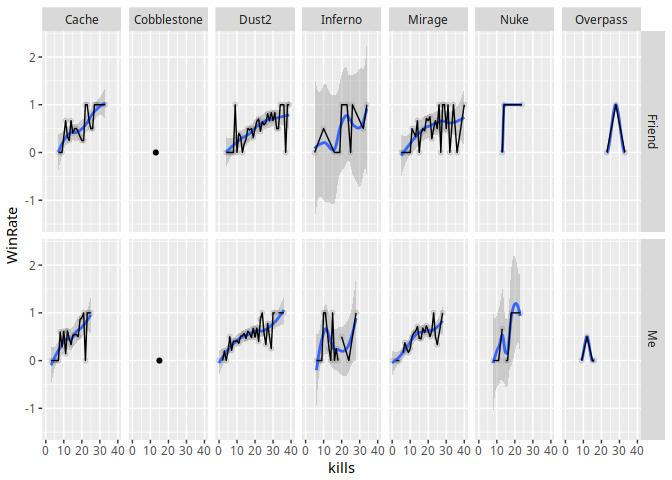
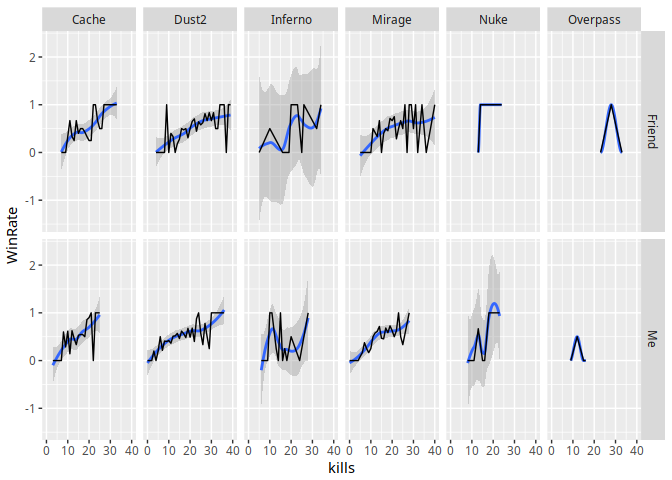
refactored near duplicate query

diff --git a/README.md b/README.md
@@ -32,6 +32,7 @@ library(readr)
 library(DBI)
 library(lubridate)
 library(dplyr)
+library(tidyr)
 library(glue)
 
 vars <- read_csv('secrets/vars.csv',
@@ -39,7 +40,7 @@ vars <- read_csv('secrets/vars.csv',
     )
 id1 <- vars$MY_ID
 id2 <- vars$FRIEND_ID
-p.name <- glue("CASE WHEN p.steam_id = {id1} THEN 'Me' WHEN {id2} THEN 'Friend' END as name")
+p.name <- glue("CASE WHEN p.steam_id = {id1} THEN 'Me' WHEN {id2} THEN 'Friend' END AS name")
 
 # Sql with variable Interpolation utility func
 # idk why glue_sql doesnt work
@@ -72,7 +73,7 @@ tbl(con, si("
 
 ``` r
 tbl(con, si("
-    SELECT AVG(pl.kills) as AvgDayKills, pl.start_time, {p.name}
+    SELECT AVG(pl.kills) AS AvgDayKills, pl.start_time, {p.name}
     FROM player p
     INNER JOIN played_in pl ON p.steam_id = pl.pid
     WHERE
@@ -88,7 +89,7 @@ tbl(con, si("
     facet_grid(name~.)
 ```
 
-![](README_files/figure-gfm/a-1.png)<!-- -->
+![](README_files/figure-gfm/avg-kills-1.png)<!-- -->
 
 ``` r
 tbl(con, si("
@@ -111,11 +112,11 @@ tbl(con, si("
     geom_smooth()
 ```
 
-![](README_files/figure-gfm/difference-1.png)<!-- -->
+![](README_files/figure-gfm/kill-difference-1.png)<!-- -->
 
 ``` r
-tbl(con, si("
-    SELECT {p.name}, pl.kills, m.map, AVG(win.DidWin) as WinRate, m.start_time
+data_win_ratio_per_kill_map <- tbl(con, si("
+    SELECT {p.name}, pl.kills, m.map, AVG(win.DidWin) AS WinRate, COUNT(win.DidWin) AS Weight
     FROM player p
     INNER JOIN played_in pl ON p.steam_id = pl.pid
     INNER JOIN match m ON
@@ -142,14 +143,16 @@ tbl(con, si("
         m.duration = win.duration
     WHERE
         p.steam_id = {id1} OR
-        p.steam_id = {id2} AND
-        win.DidWin IS NOT NULL
+        p.steam_id = {id2}
     GROUP BY p.steam_id, pl.kills, m.map
     ")) %>%
-    collect()  %>% #%T>%
-    #print(n = Inf) %>%
+    collect() %>%
+    drop_na()
+
+data_win_ratio_per_kill_map %>%
+    add_count(name, map) %>%
+    filter(n != 1) %>%
     ggplot(aes(kills, WinRate)) +
-    geom_point(aes(alpha = (map == "Cobblestone"))) +
     geom_smooth() +
     geom_line() +
     facet_grid(name ~ map) +
@@ -159,41 +162,13 @@ tbl(con, si("
 ![](README_files/figure-gfm/win-ratio-1.png)<!-- -->
 
 ``` r
-tbl(con, si("
-    SELECT {p.name}, pl.kills, AVG(win.DidWin) as WinRate, m.start_time
-    FROM player p
-    INNER JOIN played_in pl ON p.steam_id = pl.pid
-    INNER JOIN match m ON
-        pl.map = m.map AND
-        pl.start_time = m.start_time AND
-        pl.duration = m.duration
-    INNER JOIN (
-        SELECT p.steam_id, m.map, m.start_time, m.duration,
-            CASE
-                WHEN pl.team = 0 AND m.score_team_a = 16 THEN 1
-                WHEN pl.team = 1 AND m.score_team_b = 16 THEN 1
-                WHEN m.score_team_a = 16 OR m.score_team_b = 16 then 0
-            END as DidWin
-        FROM player p
-        INNER JOIN played_in pl ON p.steam_id = pl.pid
-        INNER JOIN match m ON
-            pl.map = m.map AND
-            pl.start_time = m.start_time AND
-            pl.duration = m.duration
-    ) win ON
-        p.steam_id = win.steam_id AND
-        m.map = win.map AND
-        m.start_time = win.start_time AND
-        m.duration = win.duration
-    WHERE
-        p.steam_id = {id1} OR
-        p.steam_id = {id2} AND
-        win.DidWin IS NOT NULL
-    GROUP BY p.steam_id, pl.kills
-    ")) %>%
-    collect()  %>% #%T>%
-    #print(n = Inf) %>%
-    ggplot(aes(kills, WinRate)) +
+data_win_ratio_per_kill <- data_win_ratio_per_kill_map %>%
+    group_by(name, kills) %>%
+    summarise(
+        WinRate = weighted.mean(WinRate, Weight),
+        Weight = sum(Weight))
+
+ggplot(data_win_ratio_per_kill, aes(kills, WinRate)) +
     geom_point() +
     geom_smooth() +
     geom_line() +
@@ -201,12 +176,3 @@ tbl(con, si("
 ```
 
 ![](README_files/figure-gfm/win-ratio-2.png)<!-- -->
-
-``` r
-#TODO:
-# de duplicate the code
-# probably by taking the per map one and combining the averages
-# when grouped just by name and kills
-#
-# figure out how nulls are getting in despite doing win.DidWin IS NOT NULL
-```
